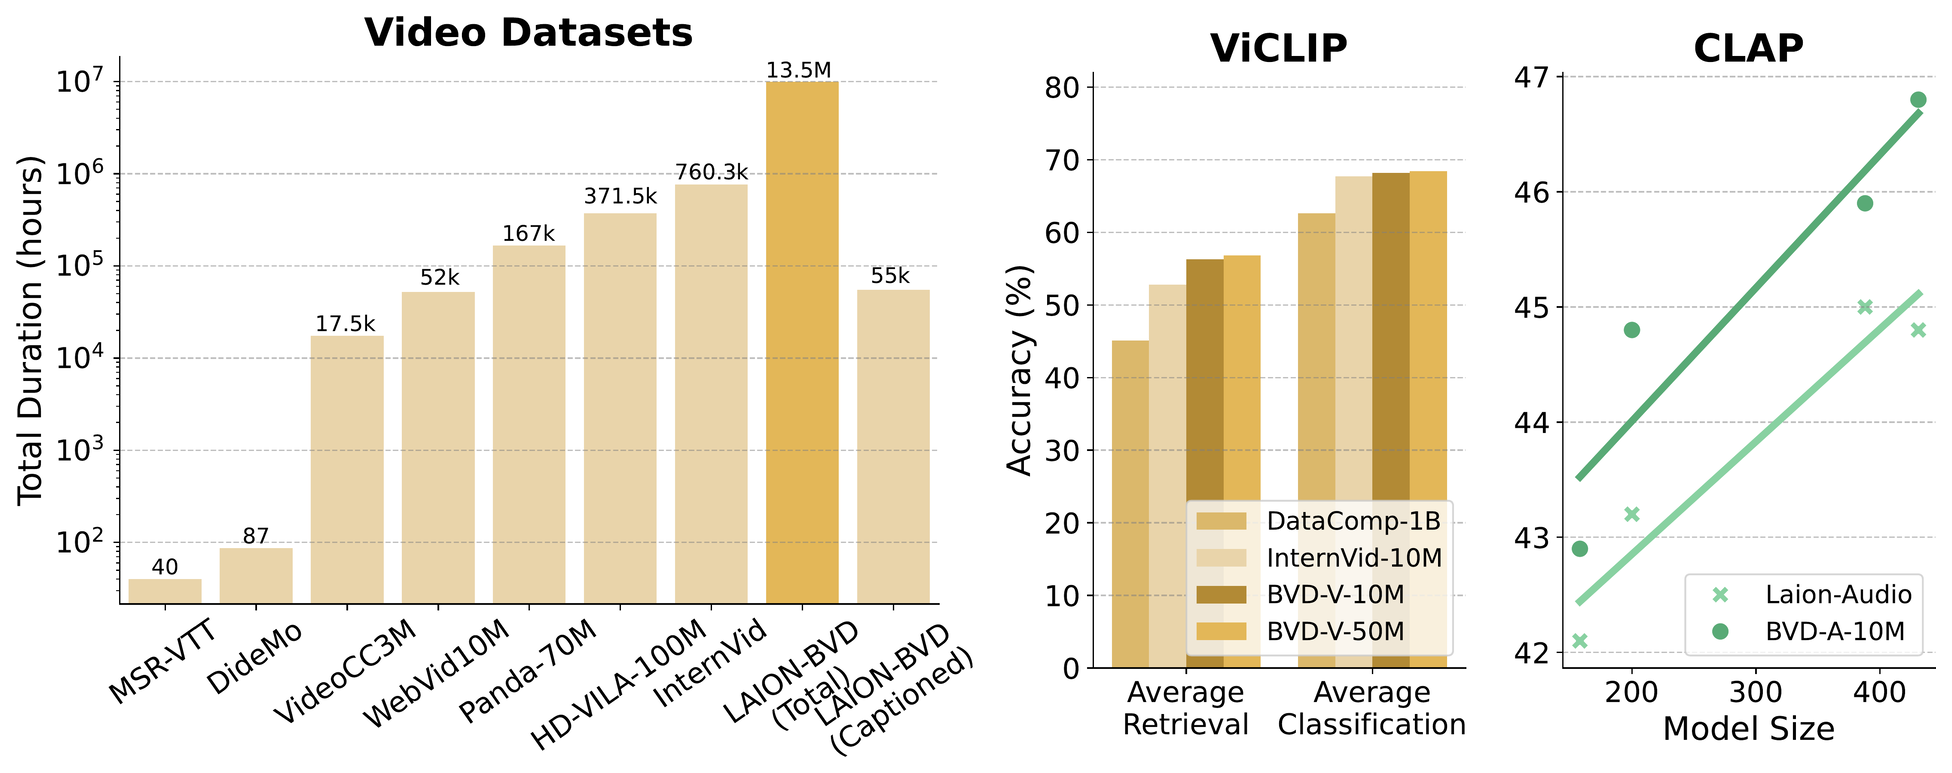
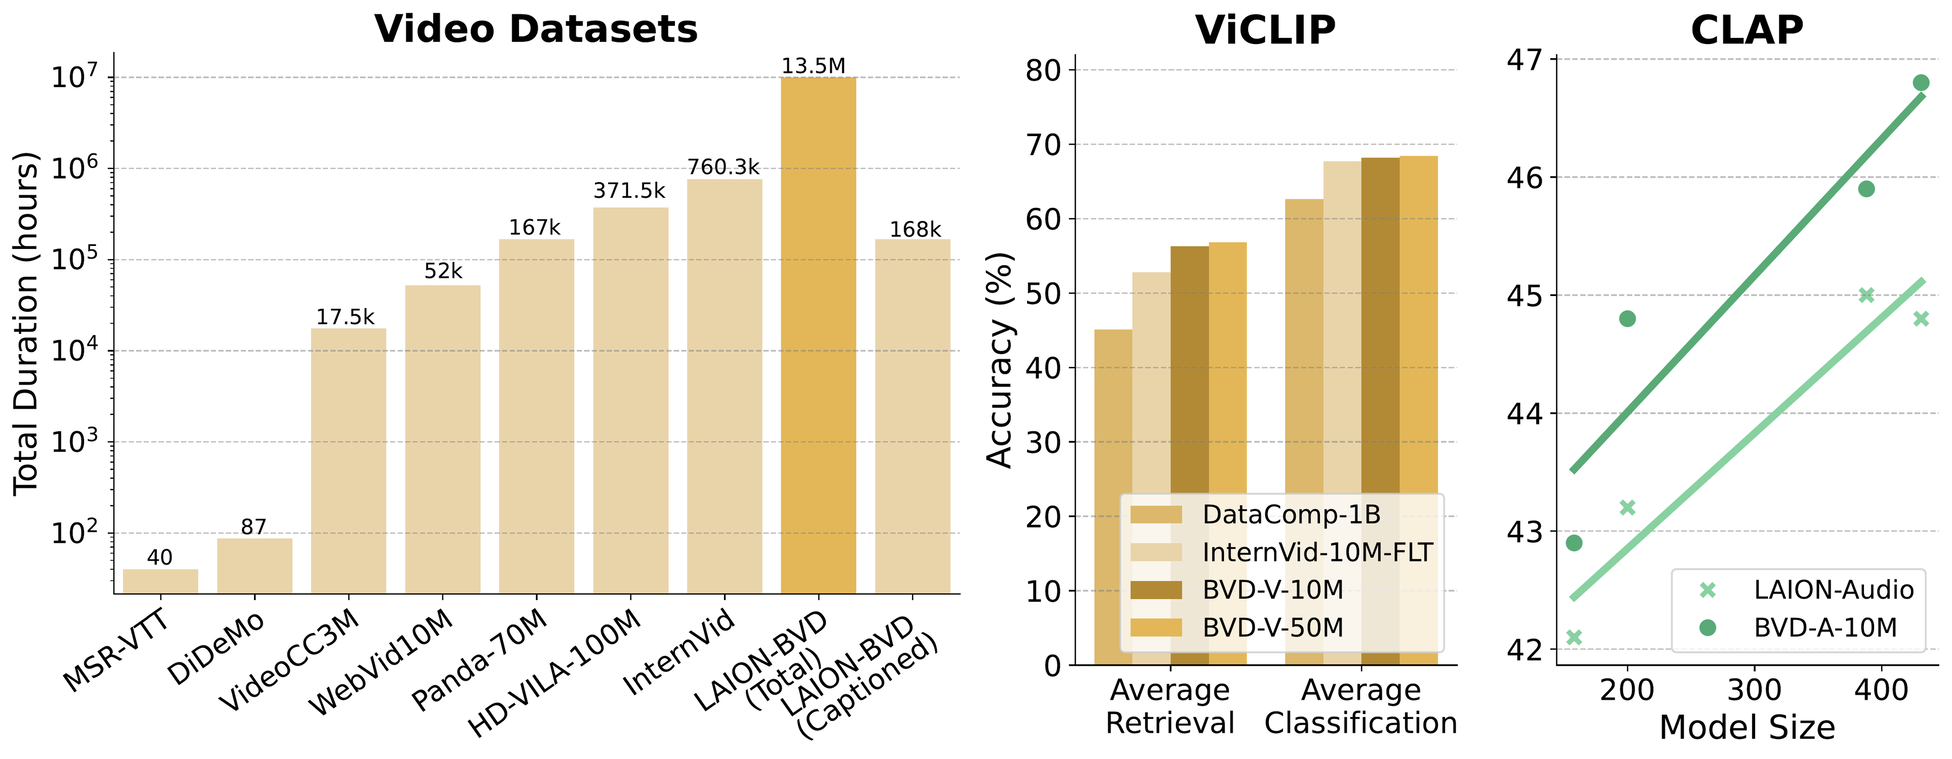
Sync BVD blog post with latest paper revisions

diff --git a/src/content/blog/bvd.md b/src/content/blog/bvd.md
@@ -18,7 +18,7 @@ LAION-BVD contains:
 The dataset is intended for research on video-language, audio-language, and image-text models.  
 <figure style="margin: 1.5rem 0 1rem;">
   <img src="/images/blog/bvd_fig1.png" alt="LAION-BVD dataset comparison and scaling behavior" style="display: block; margin: 0 auto;">
-  <figcaption style="margin-top: 0.25rem; text-align: center;">Figure 1: <strong>LAION-BVD compared with existing open video datasets; video and audio scaling behavior of ViCLIP and CLAP, respectively.</strong></figcaption>
+  <figcaption style="margin-top: 0.25rem; text-align: center;">Figure 1: <strong>Left: LAION-BVD compared with existing open video datasets (Total: BVD-RAW, Captioned: BVD-V-55M). Right: average downstream performance of ViCLIP (video-text) and scaling trends of CLAP (audio-text).</strong></figcaption>
 </figure>
 
 ## Why LAION-BVD?
@@ -31,13 +31,13 @@ LAION-BVD aims to provide an open foundation for multimodal research across vide
 
 We started from Common Crawl WAT files and extracted platform-specific video URLs using yt-dlp extractors. Using a distributed Apache Spark pipeline and large-scale download infrastructure, we processed video links from YouTube, Vimeo, and Dailymotion. 
 
-From 1.3B extracted video URLs, we downloaded a subset of around 80M videos corresponding to roughly 13.5M hours of content. 
+From 1.3B extracted video URLs (BVD-URLs), we downloaded a subset of around 80M videos corresponding to roughly 13.5M hours of content (BVD-RAW). 
 
-We then created several multimodal subsets: 
+From a random sample of these videos, we then created several captioned multimodal subsets: 
 
-- BVD-V-55M: 55M scene-level video clips with generated captions  
-- BVD-A-10M and BVD-A-1.7M: captioned audio subsets  
-- BVD-I-300M: 300M scene-changing video frames for image-text training
+- BVD-V-55M: 55M scene-level video clips from 2.4M source videos with generated captions (168k hours in total)  
+- BVD-A-10M: 10M audio clips of 2–30 seconds randomly sampled from BVD-V-55M with generated audio captions (27.5k hours), plus a smaller BVD-A-1.7M subset  
+- BVD-I-300M: 300M captioned scene-changing video frames for image-text training
 
 Our pipeline uses scene detection and lightweight filtering to extract clips and keyframes at scale. Video and audio captions are generated automatically using multimodal captioning models. 
 
@@ -48,7 +48,7 @@ Our pipeline uses scene detection and lightweight filtering to extract clips and
 
 ## Dataset Statistics
 
-LAION-BVD spans a broad range of languages, topics, and video formats. Most videos (97.1%) come from YouTube, with smaller shares from Dailymotion and Vimeo. Among videos with language tags, English accounts for about half, followed by Spanish, Russian, Japanese, and many other languages. The largest categories are People & Blogs, Music, and Entertainment, alongside news, education, sports, science, and many other topics.
+LAION-BVD spans a broad range of languages, topics, and video formats. Most videos (97.1%) come from YouTube, with smaller shares from Dailymotion and Vimeo. Among the 58.2% of videos with language tags, English accounts for about half, followed by Spanish, Russian, Japanese, and many other languages. The largest categories are People & Blogs, Music, and Entertainment, alongside news, education, sports, science, and many other topics.
 
 Most videos are short (median 3.5 minutes), but the distribution is long-tailed: the mean duration is 10.1 minutes, and about 7.5% of videos are 30 minutes or longer, making the dataset suitable for long-horizon video tasks.
 
@@ -87,7 +87,7 @@ Across modalities, we observe consistent improvements with increasing data and m
 <br/>
 
 Table 1: **L-14 scaling with LAION-BVD data on classification and retrieval tasks.**
-LAION-BVD-trained ViCLIP outperforms both InternVid-trained ViCLIP and the image-only CLIP baseline trained on DataComp-1B where video embeddings are obtained by averaging frame embeddings. Performance consistently improves with increased training data and dataset scale, with BVD-V-50M achieving the best overall average. (\* denotes results reported in [InternVid](https://arxiv.org/abs/2307.06942); all other results are evaluated using our pipeline.)  
+ViCLIP trained on BVD-V-10M and BVD-V-50M outperforms both InternVid-trained ViCLIP and the image-only CLIP baseline trained on DataComp-1B where video embeddings are obtained by averaging frame embeddings. Performance consistently improves with increased training data and dataset scale, with BVD-V-50M achieving the best overall average. (\* denotes results reported in [InternVid](https://arxiv.org/abs/2307.06942); all other results are evaluated using our pipeline.)  
 ![L-14 scaling with LAION-BVD data on classification and retrieval tasks](/images/blog/bvd_fig5.png)
 
 Table 2: **Average zero-shot audio performance for pure training data sources at 30M samples seen.**
